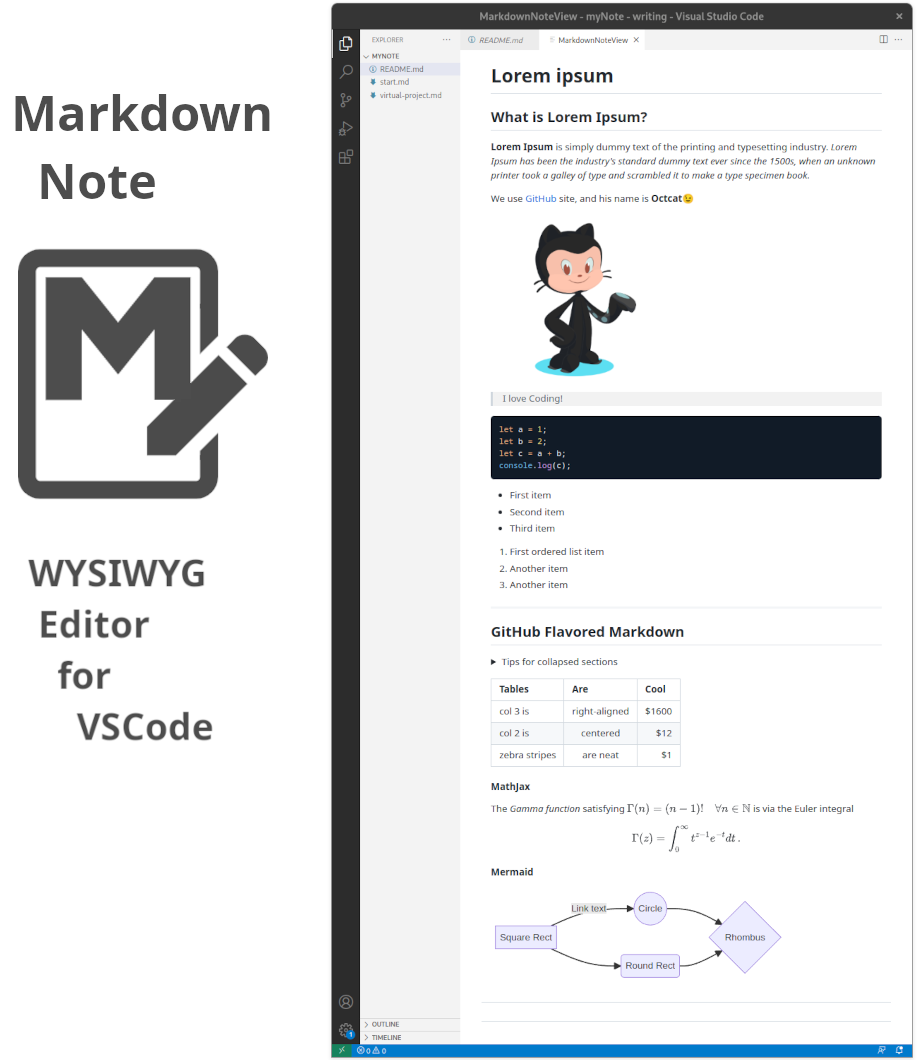
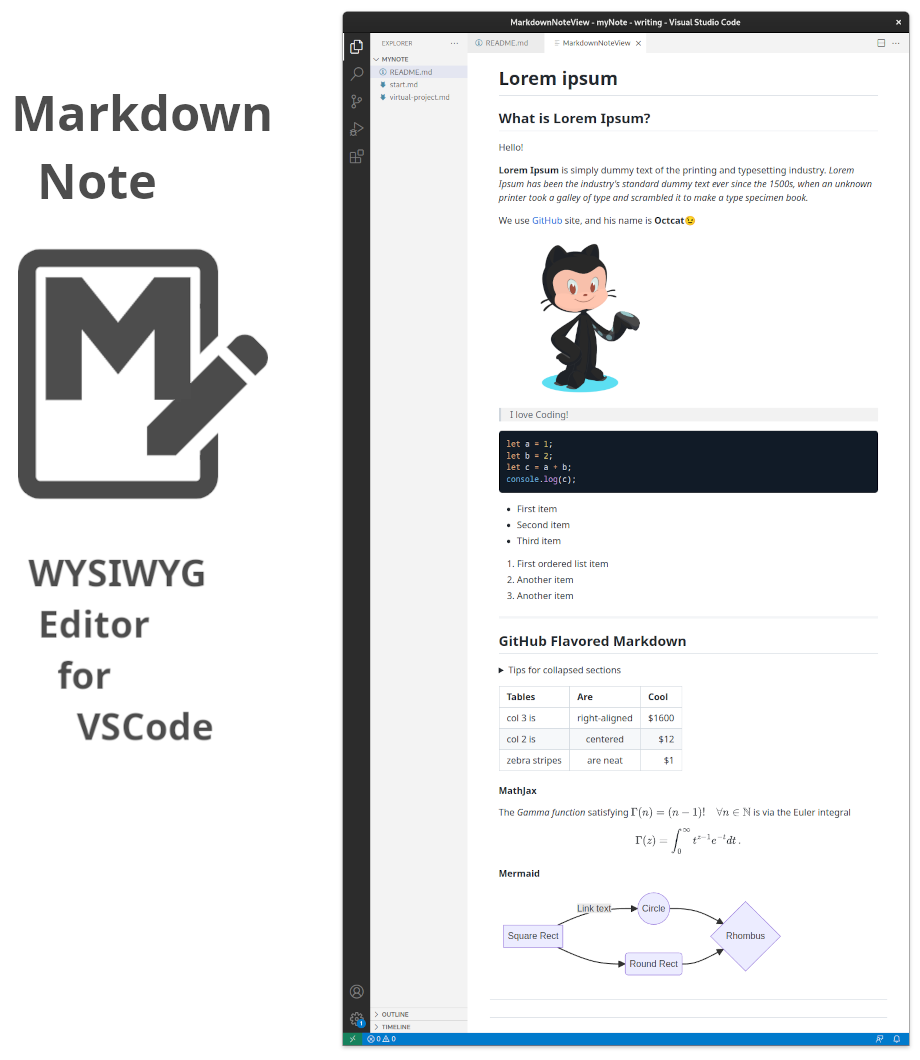
update

Changed region(s): [[0.3348, 0.0, 1.0, 1.0], [0.5478, 0.8717, 0.6087, 0.9028], [0.5478, 0.8094, 0.5783, 0.8406]]

diff --git a/README.md b/README.md
@@ -2,6 +2,5 @@
 
 # VSCode + Markdown + WYSIWYG = Productivity
 
->test
-- test
-- yesr
+Helllo
+
